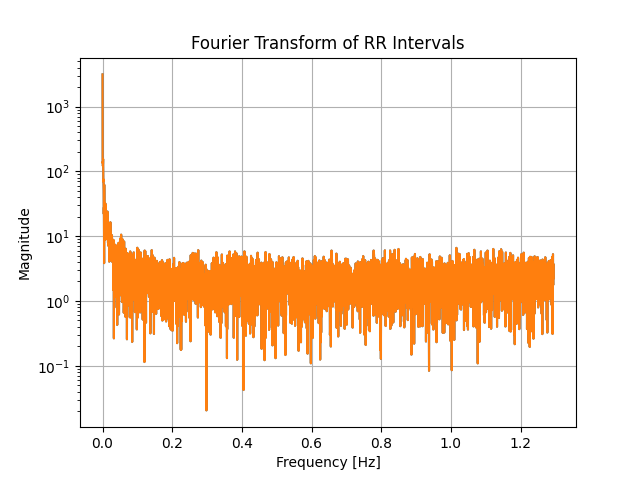
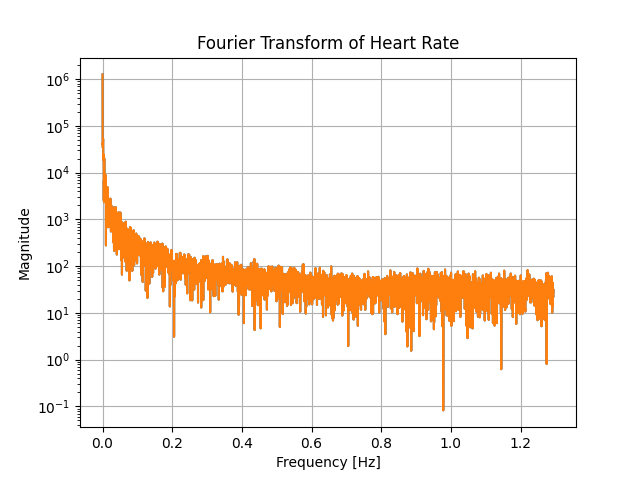
organized plots

diff --git a/DataProcessing.py b/DataProcessing.py
@@ -103,34 +103,34 @@ def process_data():
     plt.savefig("baevsky_index_plot.png")
 
     #to match the actual sampling frequency of the rr intervals
-    num_intervals = len(rr_intervals)
+    num_valus = len(heart_rates)
     fs_rr = 1 / np.mean(np.diff(timestamps))
 
-    fft_vals = np.fft.fft(rr_intervals)
-    fft_freqs = np.fft.fftfreq(num_intervals, d=1/fs_rr)
+    fft_vals = np.fft.fft(heart_rates)
+    fft_freqs = np.fft.fftfreq(num_valus, d=1/fs_rr)
 
     # Keep only positive frequencies
-    positive_freqs = fft_freqs[:num_intervals // 2]
-    positive_fft_vals = np.abs(fft_vals[:num_intervals // 2])
+    positive_freqs = fft_freqs[:num_valus // 2]
+    positive_fft_vals = np.abs(fft_vals[:num_valus // 2])
 
     # Plot Fourier Transform
     plt.figure()
     plt.plot(positive_freqs, positive_fft_vals)
     plt.xlabel('Frequency [Hz]')
     plt.ylabel('Magnitude')
-    plt.title('Fourier Transform of RR Intervals')
+    plt.title('Fourier Transform of Heart Rate')
     plt.grid()
     plt.semilogy(positive_freqs, positive_fft_vals)
     plt.savefig("Fourier_Transform.png")
     plt.show()
 
-    f, Pxx = welch(rr_intervals, fs=fs_rr, nperseg=min(256, len(rr_intervals)))
+    f, Pxx = welch(heart_rates, fs=fs_rr, nperseg=min(256, len(heart_rates)))
 
     plt.figure(figsize=(10, 5))
     plt.semilogy(f, Pxx, color='b')
     plt.xlabel('Frequency [Hz]')
     plt.ylabel('Power Spectral Density')
-    plt.title('Power Spectral Density of HRV')
+    plt.title('Power Spectral Density of Heart Rate')
     plt.grid()
     plt.savefig("PSD.png")
     plt.show()
